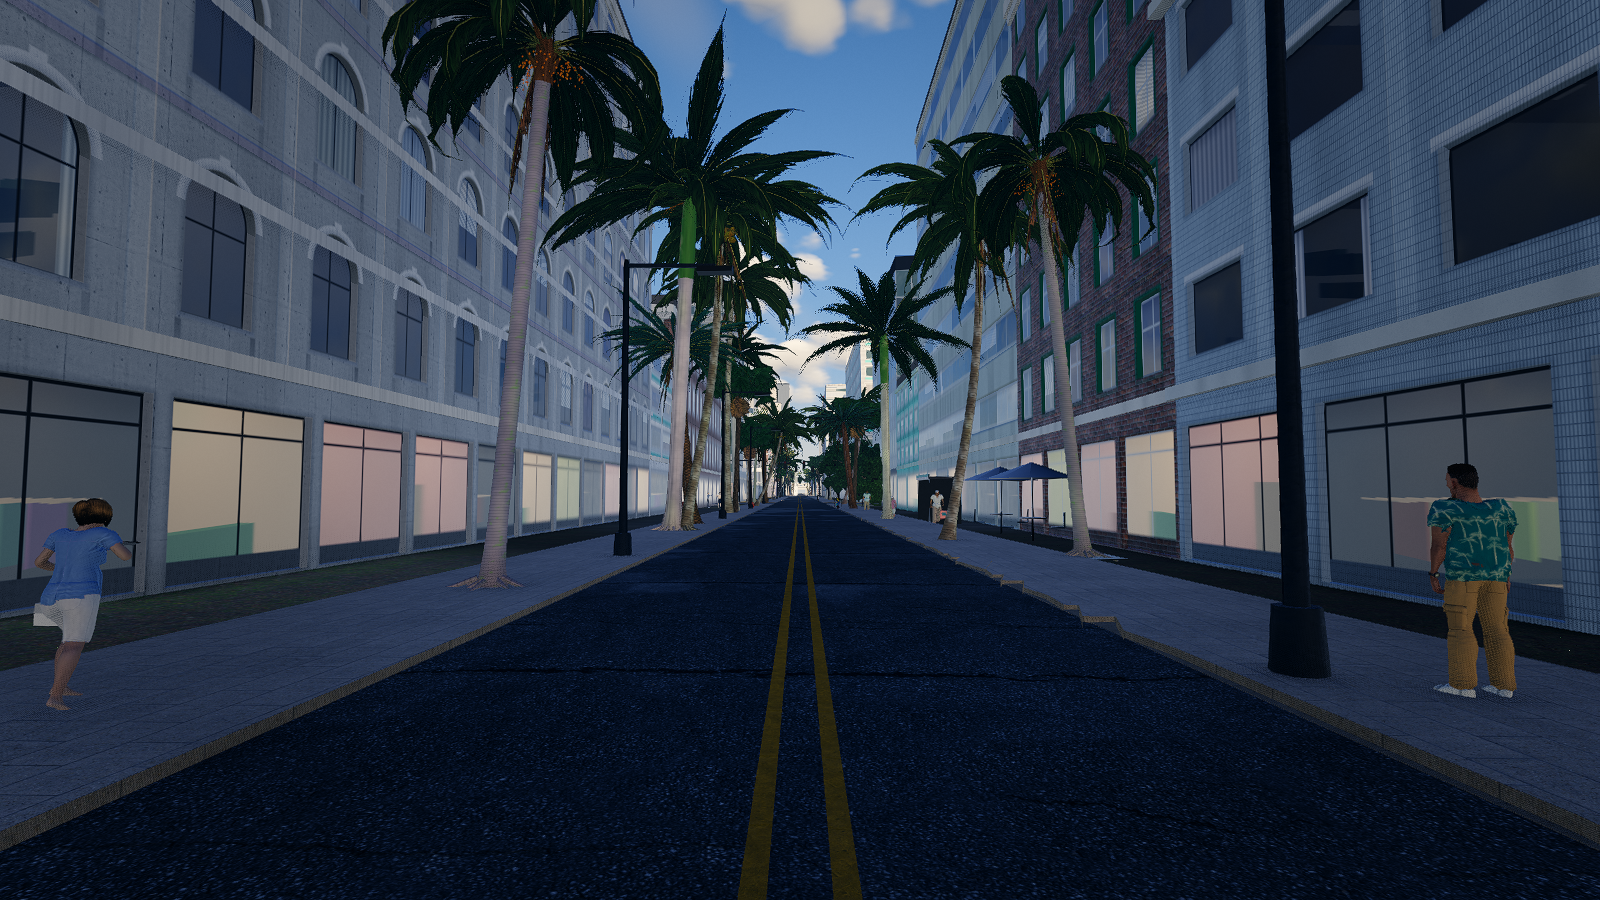
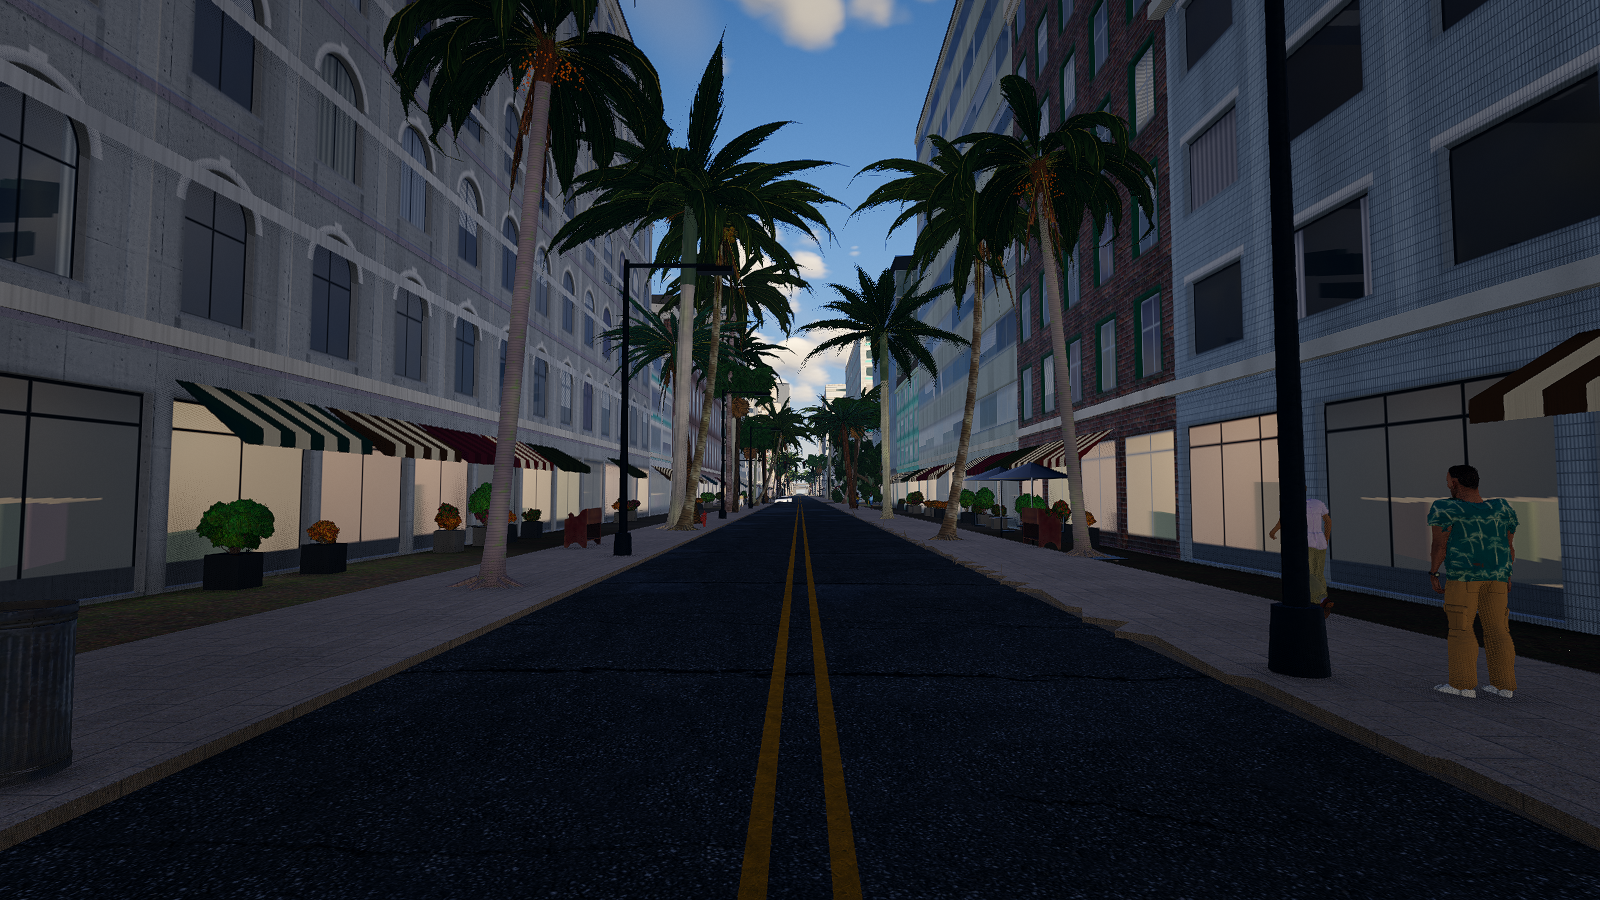
V2.1 city look pass 3: rusticated stone bases, 0.26 m window reveals that hold at street distance, interior-room shop glass downtown (toggle ?noshoprooms)

diff --git a/src/world/miami/tilebuild.js b/src/world/miami/tilebuild.js
@@ -1318,12 +1318,25 @@ export function createTileBuilder(ctx) {
       if (roadDist && roadDist(mx, mz) > 14) continue; // only the faces that front a street
       const nb = Math.max(1, Math.round(L / G.bayW)), bw = L / nb;
       for (let k = 0; k < nb; k++) {
-        if (hash(seed * 31 + i * 7 + k) > 0.6) continue;
         const sA = k * bw + 0.35, sB = (k + 1) * bw - 0.35;
         if (sB - sA < 1.6) continue;
         const cx = p[0] + tx * (sA + sB) / 2, cz = p[1] + tz * (sA + sB) / 2;
-        shopFrontDress(B, p, tx, tz, nx, nz, sA, sB, y0, top, GF, cx, cz, props);
+        if (hash(seed * 31 + i * 7 + k) < 0.6) shopFrontDress(B, p, tx, tz, nx, nz, sA, sB, y0, top, GF, cx, cz, props);
+        if (B.roomGlass && B.roomGlass.w) roomPane(B.roomGlass, p, tx, tz, nx, nz, sA + 0.12, sB - 0.12, y0 + 0.5, top - 0.06, hash(seed * 13 + i * 5 + k));
       }
+    }
+  }
+  // one interior-mapped shop pane (uv 0..1 across the glass); the room kind and light level ride in aWear
+  const ROOM_TINT = [0x8c7c66, 0x7a6e60, 0x968a76, 0x6e6252, 0x857866, 0x7c7468]; // mid-tone walls: the room's light and goods carry the read, not a blown-out box
+  function roomPane(rb, p, tx, tz, nx, nz, sa, sb, ya, yb, h) {
+    if (sb - sa < 0.8 || yb - ya < 0.8) return;
+    const o = 0.04, col = new THREE.Color(ROOM_TINT[(h * ROOM_TINT.length) | 0]);
+    const wear = 1 + ((h * 977) % 1) * 4.99 | 0;
+    const w = wear + 0.35 + 0.6 * ((h * 131) % 1);
+    const A = [p[0] + tx * sa + nx * o, p[1] + tz * sa + nz * o], Bq = [p[0] + tx * sb + nx * o, p[1] + tz * sb + nz * o];
+    for (const [x, y, z, u, v] of [[A[0], ya, A[1], 0, 0], [Bq[0], ya, Bq[1], 1, 0], [Bq[0], yb, Bq[1], 1, 1], [A[0], ya, A[1], 0, 0], [Bq[0], yb, Bq[1], 1, 1], [A[0], yb, A[1], 0, 1]]) {
+      rb.vert(x, y, z, nx, 0, nz, u, v, col);
+      rb.w.push(w);
     }
   }
   function glassFront(B, outer, f, y0, GF, bColor, props = null) {
@@ -1963,6 +1976,7 @@ export function createTileBuilder(ctx) {
     if (!tile) { root.add(group); return group; }
     const B = { junction: new Batch(), parking: new Batch(), promenade: new Batch(), panels: new Batch(), shopGlass: new Batch(), wood: new Batch(), pool: new Batch(), guard: new Batch(), asphalt: new Batch(), marks: new Batch(), sidewalk: new Batch(), trim: new Batch(), roof: new Batch(), neon: new Batch(), shop: new Batch(), office: new Batch(), deco: new Batch(), glass: new Batch(), band: new Batch(), warehouse: new Batch(), punched: new Batch(), ribbon: new Batch(), curtain: new Batch(), condo: new Batch(), grid: new Batch(), land: new Batch(), sand: new Batch(), grass: new Batch() };
     if (M.facade) { B.fac = new FBatch(); B.trim = fview(B.fac, WL.stucco); B.roof = fview(B.fac, WL.roofConcrete); }
+    if (M.roomGlass) { B.roomGlass = new Batch(); B.roomGlass.w = []; }
     const T0 = provider.tileSize || 200, X0 = t.tx * T0, Z0 = t.tz * T0, synth = !!(terrain && terrain.synthetic(t.tx, t.tz)), LF = { on: !!(tile.relief && D), k: null };
     if (terrain) { B.runway = new Batch(); B.taxiway = new Batch(); B.apron = new Batch(); }
     if (LF.on) for (const key in B) liftB(B[key], LF);
@@ -2004,6 +2018,10 @@ export function createTileBuilder(ctx) {
     for (const [name, mat, cast] of [['junction', M.junction || M.asphalt, false], ['parking', M.parking || M.asphalt, false], ['promenade', M.promenade || M.sidewalk, false], ['panels', M.panels || M.sidewalk, false], ['shopGlass', M.shopGlass, false], ['wood', M.wood, false], ['pool', M.poolWater, false], ['guard', M.guardrail, true], ['land', M.land, false], ['sand', M.sand, false], ['grass', M.grass, false], ['asphalt', M.asphalt, false], ['marks', M.markings, false], ['sidewalk', M.sidewalk, false],
       ['trim', M.trim, true], ['roof', M.roof, false], ['neon', M.neon, false], ['shop', M.shop, true], ['office', M.office, true], ['deco', M.deco, true], ['glass', M.glass, true], ['band', M.band, true], ['warehouse', M.warehouse, true], ...['punched', 'ribbon', 'curtain', 'condo', 'grid'].map((k) => [k, M[k] || M.office, true])]) {
       const m = meshOf(B[name], mat, { cast }); if (m) { if (name === 'shopGlass') m.renderOrder = 10; group.add(m); yield; }
+    }
+    if (B.roomGlass && B.roomGlass.p.length) { // shop rooms behind street-front glass (aWear = room kind + how lit)
+      const m = meshOf(B.roomGlass, M.roomGlass, { cast: false });
+      if (m) { m.geometry.setAttribute('aWear', new THREE.BufferAttribute(new Float32Array(B.roomGlass.w), 1)); m.name = 'shop-rooms'; group.add(m); }
     }
     if (B.fac && !B.fac.empty) { const m = B.fac.build(M.facade, { cast: true }); m.name = 'facades'; group.add(m); yield; }
     if (terrain) for (const key of ['runway', 'taxiway', 'apron']) { const m = meshOf(B[key], terrain.surfaces[key], { cast: false }); if (m) group.add(m); }

diff --git a/src/world/city/facade.js b/src/world/city/facade.js
@@ -151,6 +151,28 @@ void facadeEval() {
   vec3 nT = vec3(nA.xy * 2.0 - 1.0, 0.0); nT.z = sqrt(max(0.05, 1.0 - dot(nT.xy, nT.xy)));
   vec3 emi = vec3(0.0); vec3 nOver = vec3(0.0); float useOver = 0.0;
   int type = int(vFb.w + 0.5);
+  { // rusticated stone base: banded courses with V-joints and staggered head joints on the ground floor of masonry-type walls
+    float hy = vFWP.y - vFc.x;
+    bool stoneWall = Li == 1 || Li == 2 || Li == 5 || Li == 6 || Li == 9 || Li == 15 || Li == 16 || Li == 14;
+    if (!horiz && stoneWall && hy > 0.0 && hy < 4.35) {
+      float pw = max(length(fwidth(tuv)), 1e-4);
+      float cy = hy / 0.52;
+      float row = floor(cy);
+      float cx = (tuv.x + mod(row, 2.0) * 0.7) / 1.4;
+      float gy = min(fract(cy), 1.0 - fract(cy)) * 0.52;
+      float gx = min(fract(cx), 1.0 - fract(cx)) * 1.4;
+      float jy = 1.0 - smoothstep(0.03 - pw, 0.03 + pw, gy);
+      float jx = (1.0 - smoothstep(0.018 - pw, 0.018 + pw, gx)) * (1.0 - smoothstep(0.06, 0.25, pw));
+      float j = max(jy, jx);
+      float blk = fH2(vec2(floor(cx), row) + vFa.w * 31.0);
+      alb = mix(alb, mix(vec3(0.84, 0.81, 0.74), cR.rgb * 1.1, 0.35) * (0.93 + 0.12 * blk), 0.6);
+      alb *= 1.0 - 0.45 * j;
+      ao *= 1.0 - 0.4 * j;
+      float sgn = fract(cy) < 0.5 ? 1.0 : -1.0;
+      nT.y += jy * sgn * 0.7;
+      rough = mix(rough, 0.82, 0.5);
+    }
+  }
   if (type != 5 && !horiz) {
     vec2 guv = vFuv; vec2 cell = floor(guv); vec2 f = guv - cell;
     vec2 cs = vec2(vFa.y, vFa.z); vec2 pm = f * cs;
@@ -213,7 +235,7 @@ void facadeEval() {
       emi = I * tr * (1.0 - mull) * (1.0 - blind * 0.7) * (uFDay * 0.16 + lit * litC * uFGlow) + blindC * blind * lit * litC * 0.35 * uFGlow * (1.0 - mull);
     } else {
       // ---- openings in a solid wall ----
-      float rec = (type == 1 ? 0.09 : type == 8 ? 0.3 : 0.17) * detail;
+      float rec = (type == 1 ? 0.09 : type == 8 ? 0.3 : type == 0 || type == 3 ? 0.26 : 0.17) * (1.0 - smoothstep(0.12, 0.7, px));
       vec2 pg = pm + Vt.xy / (-Vt.z) * rec;
       float sdW = fOpen(type, pm - wc, hs), sdG = fOpen(type, pg - wc, hs);
       float inOpen = 1.0 - smoothstep(-px, px, sdW);
@@ -303,7 +325,7 @@ void facadeEval() {
           float tr = type == 8 ? 1.0 : 1.0 - refl * 0.82;
           float dayI = uFDay * (type == 8 ? 0.55 : type == 6 || type == 7 ? 0.5 : 0.2) * (1.0 - 0.5 * clamp(it, 0.0, 1.0));
           if (type != 6 && type != 7 && type != 8) I = mix(vec3(dot(I, vec3(0.3, 0.5, 0.2))), I, 0.45); // rooms seen through daylight glass are muted
-          if (type == 6 || type == 7) { dayI += uFDay * 0.35; I = mix(vec3(dot(I, vec3(0.3, 0.5, 0.2))), I, 0.35) * vec3(1.25, 1.0, 0.72); } // shop fronts: warm lit interiors by day too, no candy-colored rooms
+          if (type == 6 || type == 7) { dayI += uFDay * 0.12; I = mix(vec3(dot(I, vec3(0.3, 0.5, 0.2))), I, 0.3) * vec3(1.15, 0.97, 0.76); } // shop fronts: warm lit interiors by day too, no candy-colored rooms
           float l2 = type == 8 ? max(lit, uFNight * 0.9) : lit;
           oEmi = I * tr * (1.0 - cov) * (dayI + l2 * litC * uFGlow) + cC * cov * l2 * litC * 0.3 * uFGlow * tr;
           oAlb = mix(gTint * (type == 8 ? 0.0 : 0.4), cC * 0.85, cov * 0.9);

diff --git a/src/world/miami/materials.js b/src/world/miami/materials.js
@@ -403,8 +403,18 @@ float lNoise(vec2 p) { vec2 i = floor(p); vec2 f = fract(p); vec2 u = f * f * (3
     M.lampHead.emissiveIntensity = 6 * n; M.pool.opacity = 0.5 * n;
     M.neon.color.setScalar(1 + 2.4 * dusk);
     if (dusk > 0.02) M.bulb.color.setRGB(1, 0.85, 0.63).multiplyScalar(0.3 + 3.2 * dusk); else M.bulb.color.setRGB(0.2, 0.19, 0.17); // unlit by day: dull glass bulb, not a glowing beige dot
+    if (M.roomGlassKit) M.roomGlassKit.uNight.value = Math.max(n, dusk * 0.8);
     const blink = t % 1.6 < 0.25; M.beacon.color.setRGB(blink ? 4 : 0.25, blink ? 0.2 : 0.02, blink ? 0.2 : 0.02);
     return { n, dusk };
   }
+  // downtown shop windows: the towns track's interior-room glass (furnished box rooms behind the pane, warm at night)
+  // ?noshoprooms turns it off (costs about 6 ms a frame on a downtown street at car height, measured Nov 14)
+  if (!(typeof location !== 'undefined' && /noshoprooms/.test(location.search))) try {
+    const { createHouseKit } = await import('../setpieces/houses/materials.js');
+    const hk = createHouseKit(THREE, {});
+    M.roomGlass = hk.mat.shopGlass();
+    M.roomGlass.side = THREE.DoubleSide;
+    M.roomGlassKit = hk;
+  } catch (e) { console.warn('[city-look] shop room glass unavailable', e); }
   return { M, F, update };
 }

diff --git a/docs/v2/reports/city-look.md b/docs/v2/reports/city-look.md
@@ -1,3 +1,32 @@
+# city-look: downtown street pass 3 (Nov 14, 6:20 to 6:30 AM, load 3 to 4)
+
+Same camera throughout: East Flagler St, car height, 1 PM.
+- Before (Nov 13): `before58/dt_street_13.png`
+- Pass 2: `after58/dt_street_13.png`
+- Pass 3: `after59c/dt_street_13.png`
+
+## Verified in screenshots
+- **Pass 2:** striped awnings in muted liveries, granite planters with topiary and flowers, cornices and string courses, reflective blue-grey upper glass, lintels and keystones. Shaded sides read grey under the new lighting.
+- **Pass 3:**
+  - A rusticated stone base: banded courses, V-joints and staggered head joints on the ground floor of masonry-type walls (facade.js).
+  - Deeper window reveals (0.26 m on punched and arched windows) that now hold out to street distance instead of fading at about 5 m.
+  - Street-facing shop bays get a pane of the towns track's interior-room glass (`createHouseKit().mat.shopGlass()`, our own instance). Each pane is a box room with walls, floor and ceiling, kinds 1 to 5, and is warm at night through the kit's `uNight`, which materials.js now drives.
+  - Shader-drawn shop windows lost their pastel tint.
+- Console is clean (only the favicon 404).
+
+## Cost
+- **Draw calls:** 502 to 509, unchanged.
+- **Frame time:** 16.7 ms (60 fps) before the room glass, 23 to 28 ms after (36 to 43 fps), at load 4. The house room shader over about 10% of the screen costs roughly 6 ms. `?noshoprooms` turns it off. The lead should decide whether to keep it on.
+
+## Honest score against ref_58 / ref_59
+About 4.5/10, up from 3.5.
+- The shop rooms read as empty, evenly lit boxes; the furniture in the house shader barely shows at 4 m pane width.
+- Still no lit-interior richness, deep arched stone surrounds or real geometric rustication.
+- The tile-textured blue building on the right still looks generated.
+- Sidewalk pavers and granite curbs: not done. They are ground-track code (road and sidewalk functions in tilebuild.js), which I was told not to touch. The current sidewalk is a plain concrete-paver PBR set with a curb.
+
+---
+
 # city-look: near buildings vs ref_58 / ref_59 (Nov 13, 10:38 PM to 11:55 PM)
 
 ## Changes
